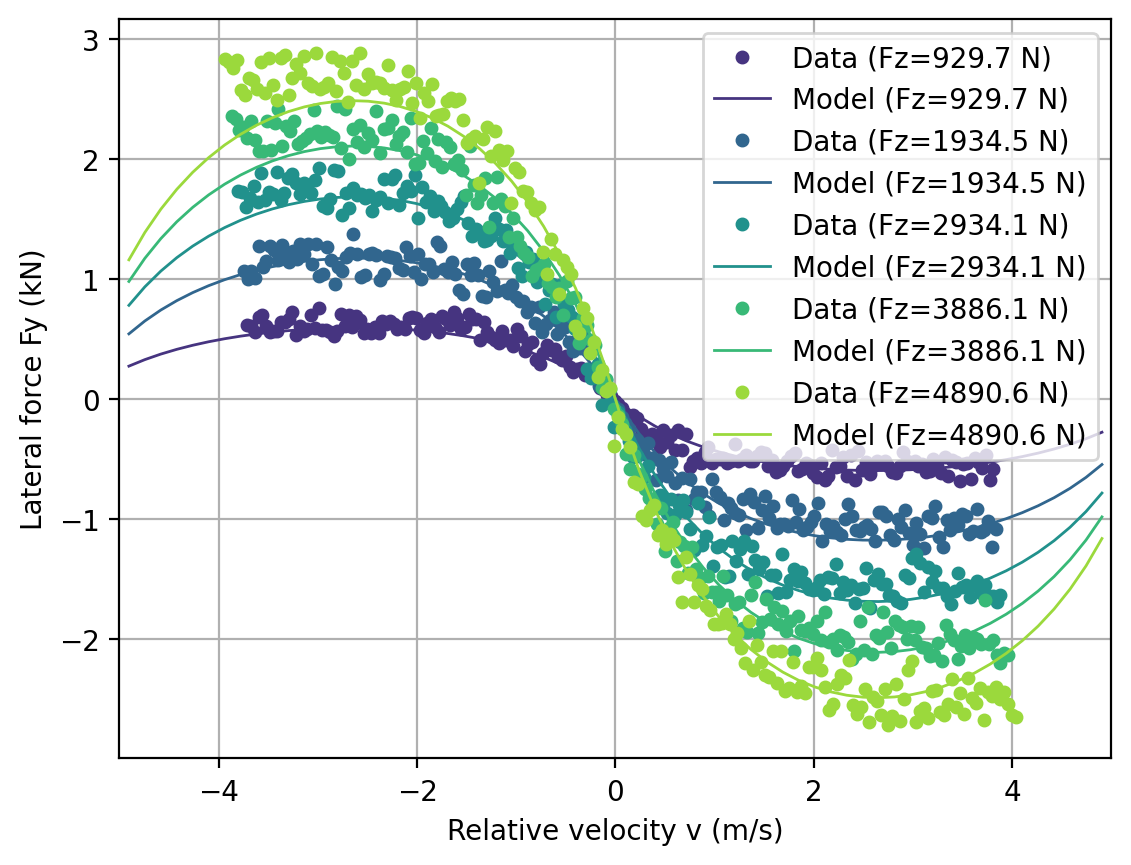
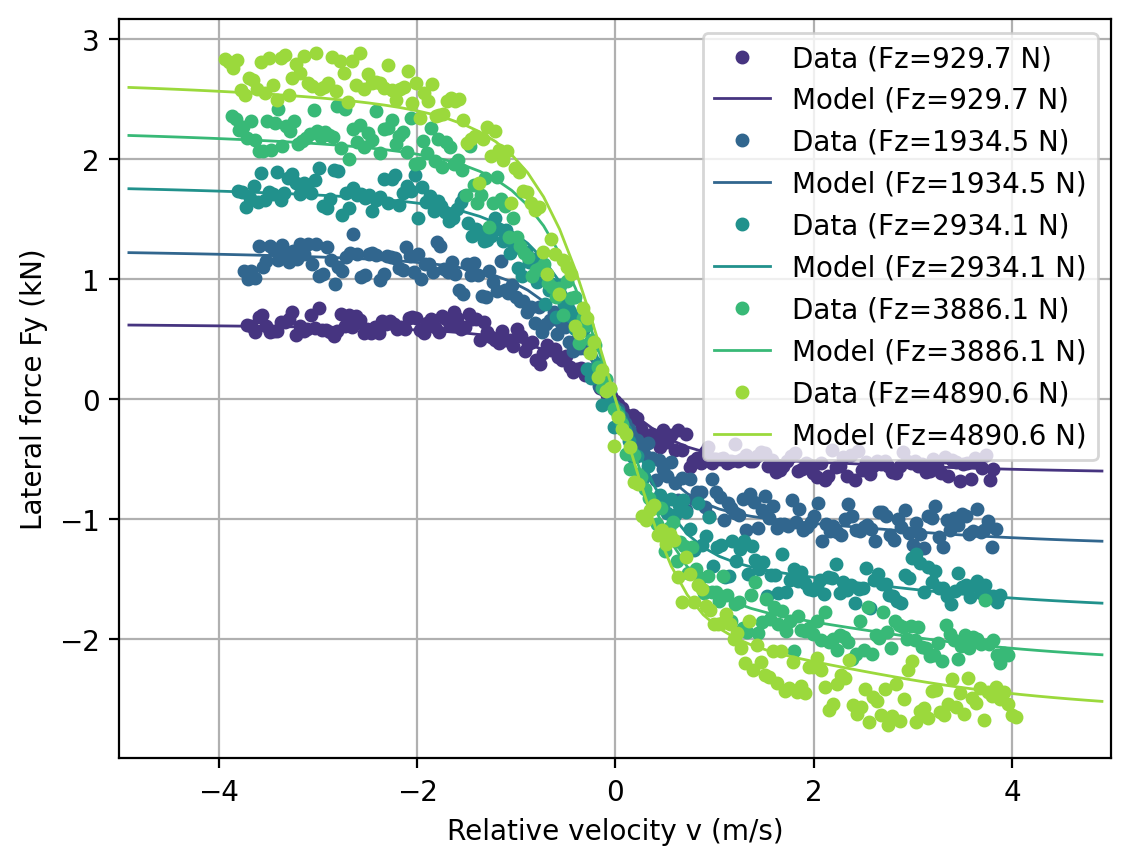
Added logging of training and validation MSEs.

diff --git a/src/sr_tire/models/flex_sr_run.py b/src/sr_tire/models/flex_sr_run.py
@@ -22,6 +22,7 @@ from ..plot import plot_force_model_data
 from ..process_data import load_and_process_bins, make_datasets
 from .fitness import (
     assign_attributes,
+    compute_force_model_MSE,
     compute_attributes,
     eval_model,
     predict,
@@ -114,6 +115,7 @@ def build_regressor(
     params,
     cfgfile,
     train_Fz_rep,
+    custom_logger=None,
 ):
     regressor_params, config = load_config_data(cfgfile)
     regressor_params["num_individuals"] = params["num_individuals"]
@@ -146,6 +148,7 @@ def build_regressor(
         batch_size=batch_size,
         num_cpus=num_cpus,
         print_log=True,
+        custom_logger=custom_logger,
         **regressor_params,
     )
 
@@ -200,12 +203,32 @@ def fit_regressor(
     seed,
 ):
     set_fit_seed(seed)
+    train_mse_history = []
+    val_mse_history = []
+
     gpsr = build_regressor(
         num_variables,
         params,
         cfgfile,
         train_Fz_rep,
     )
+    toolbox, _ = gpsr._GPSymbolicRegressor__creator_toolbox_pset_config()
+
+    def custom_logger(best_inds):
+        best_individual = best_inds[0]
+        train_mse_history.append(best_individual.train_mse)
+        compiled_individual, _ = compile_individual_with_consts(best_individual, toolbox)
+        consts = getattr(best_individual, "consts", [])
+        val_mse = compute_force_model_MSE(
+            compiled_individual,
+            X_val[:, 0],
+            y_val,
+            val_Fz_rep,
+            consts=consts,
+        )
+        val_mse_history.append(val_mse)
+
+    gpsr.custom_logger = custom_logger
     gpsr.fit(X_train, y_train)
     validation_predictions = predict_force_model_with_regressor(
         gpsr,
@@ -213,7 +236,12 @@ def fit_regressor(
         val_Fz_rep,
     )
     validation_score = r2_score(y_val, validation_predictions)
-    return gpsr, validation_score
+    return (
+        gpsr,
+        validation_score,
+        np.asarray(train_mse_history, dtype=float),
+        np.asarray(val_mse_history, dtype=float),
+    )
 
 
 def build_run_paths(run_index):
@@ -221,6 +249,8 @@ def build_run_paths(run_index):
     return (
         run_dir / "best_model_results.txt",
         run_dir / "best_model_plot.png",
+        run_dir / "train_mse_history.csv",
+        run_dir / "val_mse_history.csv",
     )
 
 
@@ -229,6 +259,8 @@ def save_run_outputs(
     gpsr,
     validation_score,
     params,
+    train_mse_history,
+    val_mse_history,
     X_train,
     y_train,
     train_Fz_rep,
@@ -242,7 +274,12 @@ def save_run_outputs(
     y_plot,
     Fz_overall_rep,
 ):
-    results_path, plot_path = build_run_paths(run_index)
+    (
+        results_path,
+        plot_path,
+        train_mse_history_path,
+        val_mse_history_path,
+    ) = build_run_paths(run_index)
     result_data = save_model_results(
         gpsr,
         validation_score,
@@ -270,12 +307,27 @@ def save_run_outputs(
         output_path=plot_path,
         show=False,
     )
+    train_mse_history_path.parent.mkdir(parents=True, exist_ok=True)
+    history_lines = ["generation,train_mse"]
+    history_lines.extend(
+        f"{generation},{train_mse}"
+        for generation, train_mse in enumerate(train_mse_history, start=1)
+    )
+    train_mse_history_path.write_text("\n".join(history_lines) + "\n")
+    val_history_lines = ["generation,val_mse"]
+    val_history_lines.extend(
+        f"{generation},{val_mse}"
+        for generation, val_mse in enumerate(val_mse_history, start=1)
+    )
+    val_mse_history_path.write_text("\n".join(val_history_lines) + "\n")
 
     return {
         "run_index": run_index,
         "validation_score": validation_score,
         "results_path": results_path,
         "plot_path": plot_path,
+        "train_mse_history_path": train_mse_history_path,
+        "val_mse_history_path": val_mse_history_path,
         **result_data,
     }
 
@@ -295,6 +347,8 @@ def save_run_summary(run_summaries, summary_path=RUN_SUMMARY_PATH):
                 f"  best_model: {run_summary['best_model']}",
                 f"  results_path: {run_summary['results_path']}",
                 f"  plot_path: {run_summary['plot_path']}",
+                f"  train_mse_history_path: {run_summary['train_mse_history_path']}",
+                f"  val_mse_history_path: {run_summary['val_mse_history_path']}",
                 "",
             ]
         )
@@ -453,7 +507,7 @@ def main():
     for run_index in range(1, num_runs + 1):
         run_seed = base_seed + run_index - 1
         print(f"Starting run {run_index}/{num_runs} with seed {run_seed}")
-        gpsr, validation_score = fit_regressor(
+        gpsr, validation_score, train_mse_history, val_mse_history = fit_regressor(
             num_variables,
             best_params,
             str(CONFIG_PATH),
@@ -470,6 +524,8 @@ def main():
             gpsr,
             validation_score,
             deepcopy(best_params),
+            train_mse_history,
+            val_mse_history,
             X_train,
             y_train,
             train_Fz_rep,

diff --git a/src/sr_tire/models/save_results.py b/src/sr_tire/models/save_results.py
@@ -17,16 +17,16 @@ def compute_regression_metrics(y_true, y_pred):
 
 
 def get_best_model_expression(gpsr):
-    try:
-        best_model = gpsr.get_best_individual_sympy()
-    except Exception:
-        try:
-            best_model = stringify_for_sympy(gpsr._best, conversion_rules, "c")
-        except Exception:
-            best_model = str(gpsr._best)
-            consts = getattr(gpsr._best, "consts", [])
-            if len(consts) > 0:
-                best_model = f"{best_model} ; consts={np.asarray(consts).tolist()}"
+    # try:
+    best_model = gpsr.get_best_individual_sympy()
+    # except Exception:
+    #     try:
+    #         best_model = stringify_for_sympy(gpsr._best, conversion_rules, "c")
+    #     except Exception:
+    #         best_model = str(gpsr._best)
+    #         consts = getattr(gpsr._best, "consts", [])
+    #         if len(consts) > 0:
+    #             best_model = f"{best_model} ; consts={np.asarray(consts).tolist()}"
     return str(best_model).replace("ARG0", "v")
 
 

diff --git a/src/sr_tire/models/fitness.py b/src/sr_tire/models/fitness.py
@@ -177,6 +177,7 @@ def compute_attributes(
     for i, tree in enumerate(individuals_batch):
         if individ_length[i] >= 50:
             consts = None
+            mse = 1e8
             fitness = (1e8,)
         else:
             mse, consts = eval_MSE_and_tune_constants(
@@ -194,13 +195,14 @@ def compute_attributes(
                     + penalty["reg_param"] * individ_length[i]
                 ),
             )
-        attributes[i] = {"consts": consts, "fitness": fitness}
+        attributes[i] = {"consts": consts, "fitness": fitness, "train_mse": mse}
     return attributes
 
 
 def assign_attributes(individuals_batch, attributes):
     for ind, attr in zip(individuals_batch, attributes):
         ind.consts = attr["consts"]
+        ind.train_mse = attr["train_mse"]
         ind.fitness.values = attr["fitness"]
 
 

diff --git a/src/sr_tire/models/flex_runs/summary.tex b/src/sr_tire/models/flex_runs/summary.tex
@@ -3,15 +3,15 @@
 \begin{document}
 \section*{Flex SR Run Summary}
 Total runs: 2\\
-Best test $R^2$ run: 002\\
+Best test $R^2$ run: 001\\
 \begin{table}[ht]
 \centering
 \begin{tabular}{lrrrr}
 \toprule
 Statistic & $R^2 train$ & $R^2 test$ & RMSE train & RMSE test \\
 \midrule
-Median & 0.985581 & 0.991288 & 0.062225 & 0.042000 \\
-Best test $R^2$ (run 002) & 0.986491 & 0.993226 & 0.060258 & 0.037268 \\
+Median & 0.986706 & 0.990840 & 0.059742 & 0.043327 \\
+Best test $R^2$ (run 001) & 0.987638 & 0.991253 & 0.057645 & 0.042349 \\
 \bottomrule
 \end{tabular}
 \caption{Median metrics across repeated Flex SR runs and the metrics of the run with the best test $R^2$.}

diff --git a/README.md b/README.md
@@ -86,6 +86,8 @@ src/sr_tire/models/flex_runs/
 ```text
 src/sr_tire/models/flex_runs/run_001/best_model_results.txt
 src/sr_tire/models/flex_runs/run_001/best_model_plot.png
+src/sr_tire/models/flex_runs/run_001/train_mse_history.csv
+src/sr_tire/models/flex_runs/run_001/val_mse_history.csv
 ```
 
 - writes an aggregate run summary to:
